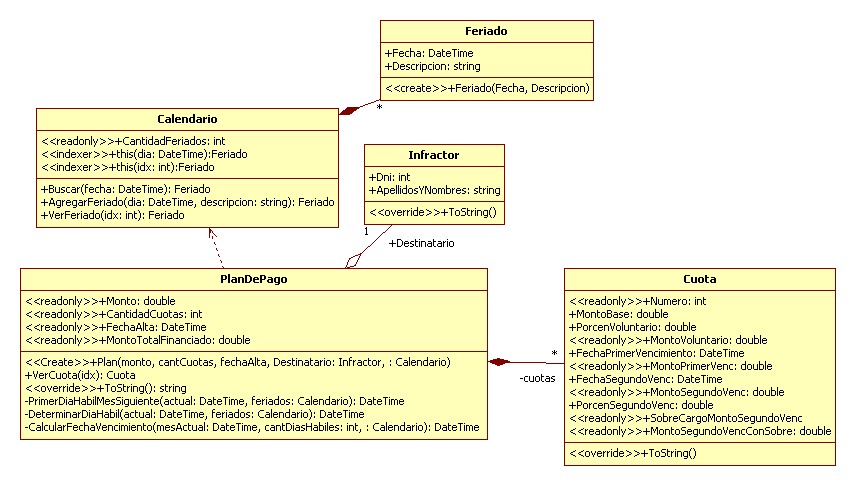
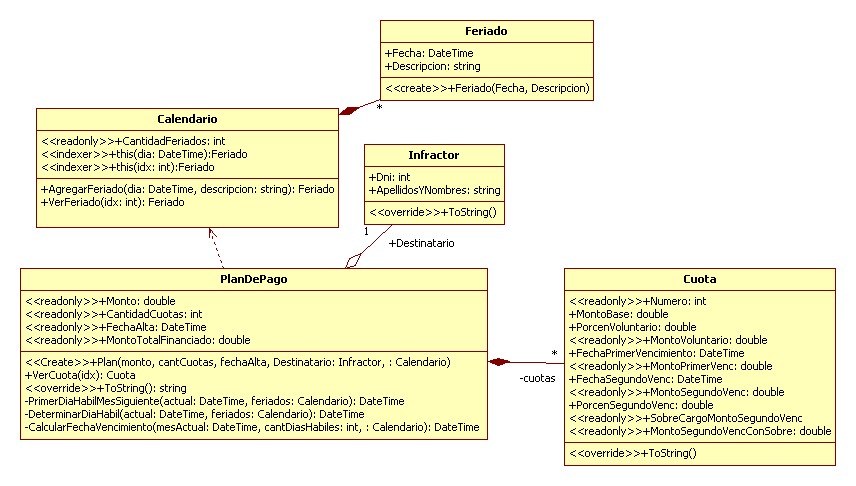
.

Changed region(s): [[0.0607, 0.3704, 0.3949, 0.463]]

diff --git a/Guia8.2/Ejercicio1/FormPrincipal.cs b/Guia8.2/Ejercicio1/FormPrincipal.cs
@@ -21,28 +21,31 @@ namespace Ejercicio1
         {
             if (Validar() == true)
             {
-                int dni = Convert.ToInt32(tbDNI.Text);
-                string nombre = tbApellidoNombres.Text;
-                double monto = Convert.ToDouble(tbMonto.Text);
-                int cantCuotas = Convert.ToInt32(nupCuotas.Value);
-                DateTime fechaAltaPlan = pkFechaInicioPlan.Value;
-
-                Infractor destinatario = new Infractor
+                try
                 {
-                    DNI = dni,
-                    ApelldosyNombres = nombre
-                };
+                    int dni = Convert.ToInt32(tbDNI.Text);
+                    string nombre = tbApellidoNombres.Text;
+                    double monto = Convert.ToDouble(tbMonto.Text);
+                    int cantCuotas = Convert.ToInt32(nupCuotas.Value);
+                    DateTime fechaAltaPlan = pkFechaInicioPlan.Value;
 
-                PlanDePago plan = new PlanDePago(monto, cantCuotas, fechaAltaPlan, destinatario, calendario);
+                    Infractor destinatario = new Infractor(dni, nombre);
 
-                tbVer.Text = plan.VerDetalle();
+                    PlanDePago plan = new PlanDePago(monto, cantCuotas, fechaAltaPlan, destinatario, calendario);
 
-                #region limpiando controles
-                tbDNI.Clear();
-                tbApellidoNombres.Clear();
-                tbMonto.Clear();
-                nupCuotas.Value = 0;
-                #endregion
+                    tbVer.Text = plan.VerDetalle();
+
+                    #region limpiando controles
+                    tbDNI.Clear();
+                    tbApellidoNombres.Clear();
+                    tbMonto.Clear();
+                    nupCuotas.Value = 0;
+                    #endregion
+                }
+                catch (Exception ex)
+                {
+                    MessageBox.Show(ex.Message);
+                }
             }
         }
 

diff --git a/Guia8.2/Ejercicio1/Models/Cuota.cs b/Guia8.2/Ejercicio1/Models/Cuota.cs
@@ -67,18 +67,27 @@ namespace Ejercicio1.Models
             }
         }
 
+        public Cuota(int numero, double montoBase,  DateTime fechaPrimerVenc, double porcenVoluntario, DateTime fechaSegundoVenc,double porcenSegundoVenc )
+        {
+            Numero = numero;
+            MontoBase = montoBase;
+            PorcenVoluntario = porcenVoluntario;
+            FechaPrimerVenc = fechaPrimerVenc;
+            PorcenSegundoVenc = porcenSegundoVenc;
+            FechaSegundoVenc = fechaSegundoVenc;
+        }
+
         public override string ToString()
         {
-            string linea = $"{$"Cuota número: {Numero} -  Valor Cuota: ",-35}${MontoBase,15:f2}\r\n" +
-                           $"  {$"Donación voluntaria ({PorcenVoluntario}%) ",-33}${MontoVoluntario,15:f2}" +
-                           "\r\n" +
-                           $"  {$"Primer Venc. ({FechaPrimerVenc:dd/MM/yy})",-33}${MontoPrimerVenc,15:f2}\r\n" +
-                           "\r\n" +
-                           $"  {$"Base. segundo Venc. ",-33}${MontoSegundoVenc,15:f2}\r\n" +
-                           $"  {$"Rec. segundo Venc. ({PorcenSegundoVenc:f2}%) ",-33}${SobreCargoMontoSegundoVenc,15:f2}\r\n" +
-                           $"  {$"Segundo Venc. ({FechaSegundoVenc:dd/MM/yy})",-33}${MontoSegundoVenc,15:f2}\r\n";
-            //faltan cosas
+            string linea = $@"{$"Cuota número: {Numero}"}
+{$"Valor Cuota: ",-33}${MontoBase,15:f2}
+{$"Donación voluntaria ({PorcenVoluntario}%) ",-33}${MontoVoluntario,15:f2}
+{$"Primer Venc. ({FechaPrimerVenc:dd/MM/yy})",-33}${MontoPrimerVenc,15:f2}
 
+{$"Base. segundo Venc. ",-33}${MontoSegundoVenc,15:f2}
+{$"Rec. segundo Venc. ({PorcenSegundoVenc:f2}%) ",-33}${SobreCargoMontoSegundoVenc,15:f2}
+{$"Segundo Venc. ({FechaSegundoVenc:dd/MM/yy})",-33}${MontoSegundoVenc,15:f2}";
+            
             return linea;
         }
     }

diff --git a/Guia8.2/Ejercicio1/Models/PlanDePago.cs b/Guia8.2/Ejercicio1/Models/PlanDePago.cs
@@ -26,6 +26,9 @@ namespace Ejercicio1.Models
             this.cantidadCuotas = cantCuotas;
             this.FechaAlta = fechaAlta;
 
+            if (cantidadCuotas == 0)
+                throw new Exception("La cantidad de cuotras debe ser mayor a cero");
+
             double montoCuota = monto / cantCuotas;
 
             DateTime fechaMesProximo = PrimerDiaHabilMesSiguiente(fechaAlta, calendario);
@@ -34,17 +37,9 @@ namespace Ejercicio1.Models
             while (nroCuota <= cantCuotas)
             {
                 DateTime primerVenc = CalcularFechaVencimiento(fechaMesProximo, 8, calendario);
-                DateTime segundoVenc = CalcularFechaVencimiento(primerVenc, 15 + 1, calendario);
+                DateTime segundoVenc = CalcularFechaVencimiento(primerVenc, 15, calendario);
 
-                Cuota cuota = new Cuota
-                {
-                    Numero = nroCuota,
-                    MontoBase = montoCuota,
-                    PorcenVoluntario = 5,
-                    FechaPrimerVenc = primerVenc,
-                    PorcenSegundoVenc = 20,
-                    FechaSegundoVenc = segundoVenc
-                };
+                Cuota cuota = new Cuota(nroCuota, montoCuota, primerVenc,5,segundoVenc,20);
 
                 cuotas.Add(cuota);
 
@@ -62,8 +57,9 @@ namespace Ejercicio1.Models
 
         private DateTime DeterminarDiaHabil(DateTime actual, Calendario feriados)
         {
-            if (actual.DayOfWeek == DayOfWeek.Saturday || actual.DayOfWeek == DayOfWeek.Sunday ||
-                feriados.Buscar(actual) != null)
+            if (actual.DayOfWeek == DayOfWeek.Saturday || 
+                actual.DayOfWeek == DayOfWeek.Sunday ||
+                feriados[actual] != null)
             {
                 actual = DeterminarDiaHabil(actual.AddDays(1), feriados);
             }

diff --git a/Guia8.2/Ejercicio1/Models/Calendario.cs b/Guia8.2/Ejercicio1/Models/Calendario.cs
@@ -15,26 +15,6 @@ namespace Ejercicio1.Models
             }
         }
 
-        public Feriado Buscar(DateTime fecha)
-        {
-            Feriado buscado = null;
-            int n = 0;
-            while (n < feriados.Count && buscado == null)
-            {
-                if (feriados[n].Dia.Year == fecha.Year &&
-                    feriados[n].Dia.Month == fecha.Month &&
-                    feriados[n].Dia.Day == fecha.Day)
-                {
-                    buscado = feriados[n];
-                }
-                else
-                {
-                    n++;
-                }
-            }
-            return buscado;
-        }
-
         public Feriado AgregarFeriado(DateTime dia, string descripcion)
         {
             Feriado nuevo = new Feriado(dia, descripcion);

diff --git a/Guia8.2/Ejercicio1/Models/Infractor.cs b/Guia8.2/Ejercicio1/Models/Infractor.cs
@@ -7,6 +7,12 @@ namespace Ejercicio1.Models
         public int DNI { get; set; }
         public string ApelldosyNombres { get; set; }
 
+        public Infractor(int dNI, string apelldosyNombres)
+        {
+            DNI = dNI;
+            ApelldosyNombres = apelldosyNombres;
+        }
+
         public override string ToString()
         {
             return $"{ApelldosyNombres}({DNI})";

diff --git a/Guia8.2/Ejercicio1/FormPrincipal.Designer.cs b/Guia8.2/Ejercicio1/FormPrincipal.Designer.cs
@@ -131,6 +131,7 @@
             // 
             // tbVer
             // 
+            this.tbVer.Font = new System.Drawing.Font("Courier New", 9.75F, System.Drawing.FontStyle.Regular, System.Drawing.GraphicsUnit.Point, ((byte)(0)));
             this.tbVer.Location = new System.Drawing.Point(6, 338);
             this.tbVer.Multiline = true;
             this.tbVer.Name = "tbVer";
